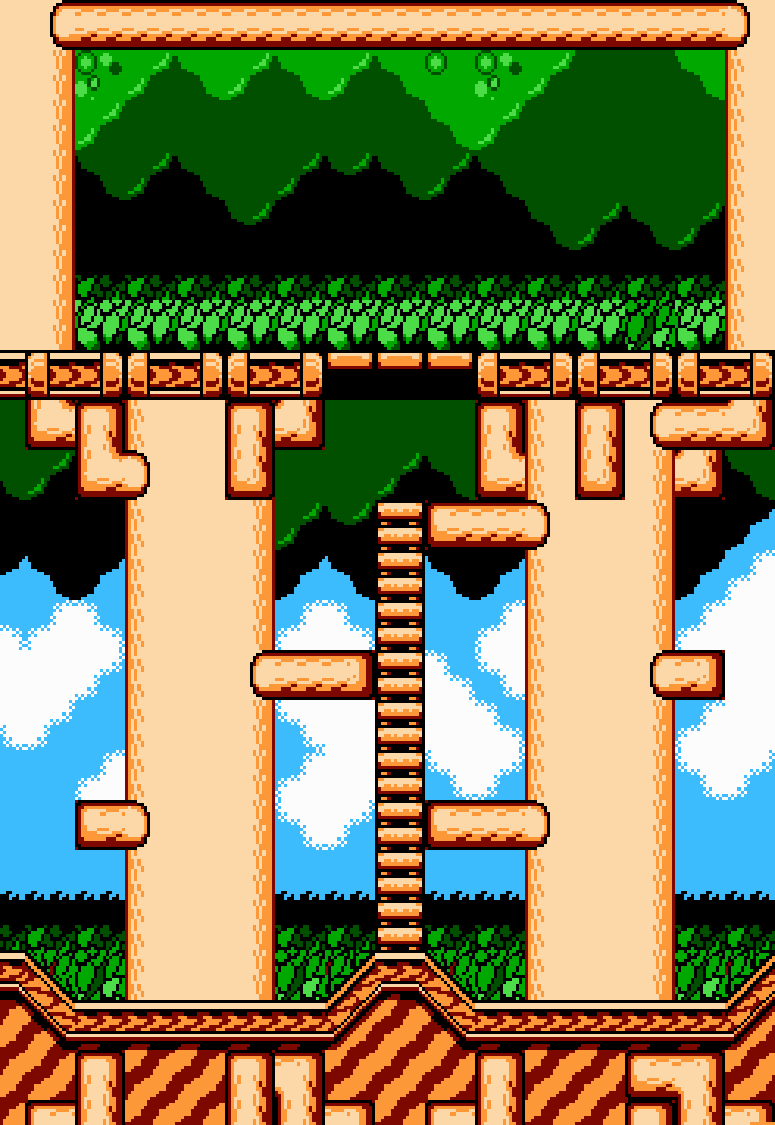
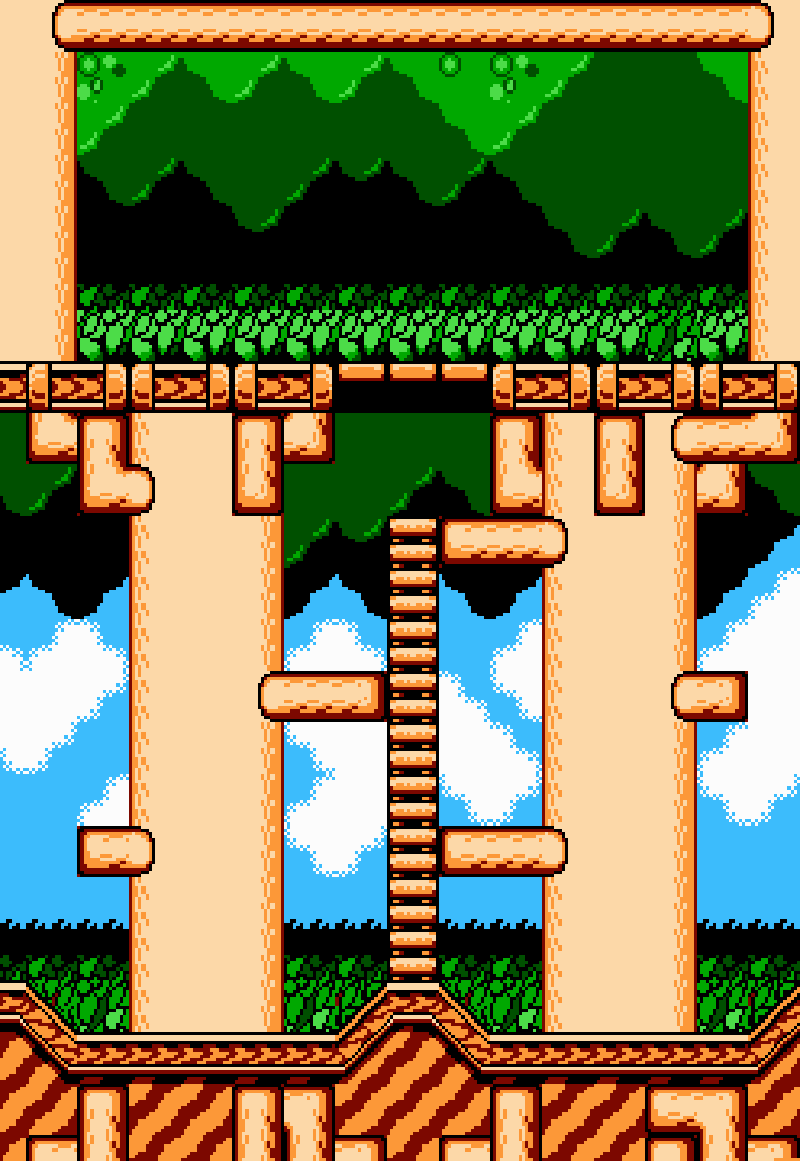
추가 : 4-1 레벨, Mr.Frosty 보스

diff --git a/Kirby's_Adventure/KirbyContents/TitleLevel.cpp b/Kirby's_Adventure/KirbyContents/TitleLevel.cpp
@@ -7,6 +7,8 @@
 #include <EngineCore\EngineResourcesManager.h>
 #include "TitleLogo.h"
 #include "TitleKirby.h"
+#include "Level111.h"
+#include "Level141.h"
 
 UTitleLevel::UTitleLevel()
 {
@@ -21,6 +23,59 @@ UTitleLevel::~UTitleLevel()
 void UTitleLevel::BeginPlay()
 {
 	ULevel::BeginPlay();
+
+	{
+		UEngineDirectory NewPath;
+
+		NewPath.MoveParent();
+		NewPath.Move("Resources");
+		NewPath.Move("Common");
+
+		std::list<UEngineFile> AllFileList = NewPath.AllFile({ ".png", ".bmp" }, true);
+		for (UEngineFile& File : AllFileList)
+		{
+			UEngineResourcesManager::GetInst().LoadImg(File.GetFullPath());
+		}
+
+		NewPath.MoveParent();
+		NewPath.Move("PlayLevel");
+
+		AllFileList = NewPath.AllFile({ ".png", ".bmp" }, true);
+		for (UEngineFile& File : AllFileList)
+		{
+			UEngineResourcesManager::GetInst().LoadImg(File.GetFullPath());
+		}
+
+		UEngineResourcesManager::GetInst().CuttingImage("Kirby1_Left.png", 10, 7);			// 256 * 256
+		UEngineResourcesManager::GetInst().CuttingImage("Kirby1_Right.png", 10, 7);			// 256 * 256
+		UEngineResourcesManager::GetInst().CuttingImage("Kirby2_Left.png", 10, 4);			// 256 * 256
+		UEngineResourcesManager::GetInst().CuttingImage("Kirby2_Right.png", 10, 4);			// 256 * 256
+		//UEngineResourcesManager::GetInst().CuttingImage("Kirby3_Left.png", 10, 4);			// 256 * 256
+		//UEngineResourcesManager::GetInst().CuttingImage("Kirby3_Right.png", 10, 4);			// 256 * 256
+		UEngineResourcesManager::GetInst().CuttingImage("EffectAbility1_Left.png", 10, 6);	// 256 * 256
+		UEngineResourcesManager::GetInst().CuttingImage("EffectAbility1_Right.png", 10, 6);	// 256 * 256
+		UEngineResourcesManager::GetInst().CuttingImage("EffectAbility2_Left.png", 10, 1);	// 256 * 256
+		UEngineResourcesManager::GetInst().CuttingImage("EffectAbility2_Right.png", 10, 1);	// 256 * 256
+		UEngineResourcesManager::GetInst().CuttingImage("NormalEnemy_Left.png", 10, 7);		// 256 * 256
+		UEngineResourcesManager::GetInst().CuttingImage("NormalEnemy_Right.png", 10, 7);	// 256 * 256
+		UEngineResourcesManager::GetInst().CuttingImage("PowerEnemy1_Left.png", 10, 9);		// 256 * 256
+		UEngineResourcesManager::GetInst().CuttingImage("PowerEnemy1_Right.png", 10, 9);	// 256 * 256
+		//UEngineResourcesManager::GetInst().CuttingImage("PowerEnemy2_Left.png", 10, 9);		// 256 * 256
+		//UEngineResourcesManager::GetInst().CuttingImage("PowerEnemy2_Right.png", 10, 9);		// 256 * 256
+		UEngineResourcesManager::GetInst().CuttingImage("MidBossEnemy_Left.png", 10, 4);	// 256 * 256
+		UEngineResourcesManager::GetInst().CuttingImage("MidBossEnemy_Right.png", 10, 4);	// 256 * 256
+		UEngineResourcesManager::GetInst().CuttingImage("BossEnemy_Left.png", 5, 2);		// 256 * 1024
+		UEngineResourcesManager::GetInst().CuttingImage("HUDUI.png", 1, 5);					// 1024 * 256
+		UEngineResourcesManager::GetInst().CuttingImage("HUDAbility.png", 10, 2);			// 256 * 256
+		UEngineResourcesManager::GetInst().CuttingImage("HUDComponent.png", 10, 2);			// 128 * 128
+		UEngineResourcesManager::GetInst().CuttingImage("Item_Left.png", 10, 3);			// 300 * 300
+		UEngineResourcesManager::GetInst().CuttingImage("Item_Right.png", 10, 3);			// 300 * 300
+	}
+
+	GEngine->CreateLevel<ULevel111>("Level111");
+	SetNextLevel("Level111");
+	//GEngine->CreateLevel<ULevel141>("Level141");
+	//SetNextLevel("Level141");
 }
 
 void UTitleLevel::Tick(float _DeltaTime)
@@ -29,7 +84,7 @@ void UTitleLevel::Tick(float _DeltaTime)
 
 	if (UEngineInput::IsDown('P'))
 	{
-		GEngine->ChangeLevel("PlayLevel");
+		GEngine->ChangeLevel("Level111");
 	}
 }
 

diff --git a/Kirby's_Adventure/KirbyContents/Level111.cpp b/Kirby's_Adventure/KirbyContents/Level111.cpp
@@ -29,54 +29,6 @@ void ULevel111::BeginPlay()
 {
 	ULevel::BeginPlay();
 
-	{
-		UEngineDirectory NewPath;
-
-		NewPath.MoveParent();
-		NewPath.Move("Resources");
-		NewPath.Move("Common");
-
-		std::list<UEngineFile> AllFileList = NewPath.AllFile({ ".png", ".bmp" }, true);
-		for (UEngineFile& File : AllFileList)
-		{
-			UEngineResourcesManager::GetInst().LoadImg(File.GetFullPath());
-		}
-
-		NewPath.MoveParent();
-		NewPath.Move("PlayLevel");
-
-		AllFileList = NewPath.AllFile({ ".png", ".bmp" }, true);
-		for (UEngineFile& File : AllFileList)
-		{
-			UEngineResourcesManager::GetInst().LoadImg(File.GetFullPath());
-		}
-
-		UEngineResourcesManager::GetInst().CuttingImage("Kirby1_Left.png", 10, 7);			// 256 * 256
-		UEngineResourcesManager::GetInst().CuttingImage("Kirby1_Right.png", 10, 7);			// 256 * 256
-		UEngineResourcesManager::GetInst().CuttingImage("Kirby2_Left.png", 10, 4);			// 256 * 256
-		UEngineResourcesManager::GetInst().CuttingImage("Kirby2_Right.png", 10, 4);			// 256 * 256
-		//UEngineResourcesManager::GetInst().CuttingImage("Kirby3_Left.png", 10, 4);			// 256 * 256
-		//UEngineResourcesManager::GetInst().CuttingImage("Kirby3_Right.png", 10, 4);			// 256 * 256
-		UEngineResourcesManager::GetInst().CuttingImage("EffectAbility1_Left.png", 10, 6);	// 256 * 256
-		UEngineResourcesManager::GetInst().CuttingImage("EffectAbility2_Right.png", 10, 6);	// 256 * 256
-		UEngineResourcesManager::GetInst().CuttingImage("EffectAbility1_Left.png", 10, 1);	// 256 * 256
-		UEngineResourcesManager::GetInst().CuttingImage("EffectAbility2_Right.png", 10, 1);	// 256 * 256
-		UEngineResourcesManager::GetInst().CuttingImage("NormalEnemy_Left.png", 10, 7);		// 256 * 256
-		UEngineResourcesManager::GetInst().CuttingImage("NormalEnemy_Right.png", 10, 7);	// 256 * 256
-		UEngineResourcesManager::GetInst().CuttingImage("PowerEnemy1_Left.png", 10, 9);		// 256 * 256
-		UEngineResourcesManager::GetInst().CuttingImage("PowerEnemy1_Right.png", 10, 9);	// 256 * 256
-		//UEngineResourcesManager::GetInst().CuttingImage("PowerEnemy2_Left.png", 10, 9);		// 256 * 256
-		//UEngineResourcesManager::GetInst().CuttingImage("PowerEnemy2_Right.png", 10, 9);		// 256 * 256
-		UEngineResourcesManager::GetInst().CuttingImage("MidBossEnemy_Left.png", 10, 4);	// 256 * 256
-		UEngineResourcesManager::GetInst().CuttingImage("MidBossEnemy_Right.png", 10, 4);	// 256 * 256
-		UEngineResourcesManager::GetInst().CuttingImage("BossEnemy_Left.png", 5, 2);		// 256 * 1024
-		UEngineResourcesManager::GetInst().CuttingImage("BossEnemy_Right.png", 5, 2);		// 256 * 1024
-		UEngineResourcesManager::GetInst().CuttingImage("HUDUI.png", 1, 5);					// 1024 * 256
-		UEngineResourcesManager::GetInst().CuttingImage("HUDAbility.png", 10, 2);			// 256 * 256
-		UEngineResourcesManager::GetInst().CuttingImage("HUDComponent.png", 10, 2);			// 128 * 128
-		UEngineResourcesManager::GetInst().CuttingImage("Item.png", 10, 3);					// 300 * 300
-	}
-
 	GEngine->CreateLevel<ULevel112>("Level112");
 	SetNextLevel("Level112");
 }
@@ -115,8 +67,8 @@ void ULevel111::Tick(float _DeltaTime)
 void ULevel111::LevelStart(ULevel* _Level)
 {
 	Map = SpawnActor<ABackGroundMap>();
-	Map->SetMapImage("Stage2-3.png");
-	Map->SetColMapImage("Stage2-3_Col.png");
+	Map->SetMapImage("Stage1-1.png");
+	Map->SetColMapImage("Stage1-1_Col.png");
 
 	Fade = SpawnActor<AFadeOut>();
 	Fade->SetActorLocation({ 400, 375 });

diff --git a/Kirby's_Adventure/KirbyContents/Level141.cpp b/Kirby's_Adventure/KirbyContents/Level141.cpp
@@ -1,4 +1,4 @@
-#include "Level112.h"
+#include "Level141.h"
 
 #include <EngineBase\EngineDirectory.h>
 #include <EngineBase\EngineFile.h>
@@ -9,27 +9,23 @@
 #include "Player.h"
 #include "Monster.h"
 #include "FadeOut.h"
-#include "Level141.h"
 
-ULevel112::ULevel112()
+ULevel141::ULevel141()
 {
 
 }
 
-ULevel112::~ULevel112()
+ULevel141::~ULevel141()
 {
 
 }
 
-void ULevel112::BeginPlay()
+void ULevel141::BeginPlay()
 {
 	ULevel::BeginPlay();
-
-	GEngine->CreateLevel<ULevel141>("Level141");
-	SetNextLevel("Level141");
 }
 
-void ULevel112::Tick(float _DeltaTime)
+void ULevel141::Tick(float _DeltaTime)
 {
 	ULevel::Tick(_DeltaTime);
 
@@ -60,11 +56,11 @@ void ULevel112::Tick(float _DeltaTime)
 	SetCameraPos(Pos);
 }
 
-void ULevel112::LevelStart(ULevel* _Level)
+void ULevel141::LevelStart(ULevel* _Level)
 {
 	Map = SpawnActor<ABackGroundMap>();
-	Map->SetMapImage("Stage1-2.png");
-	Map->SetColMapImage("Stage1-2_Col.png");
+	Map->SetMapImage("Stage4-1.png");
+	Map->SetColMapImage("Stage4-1_Col.png");
 
 	Fade = SpawnActor<AFadeOut>();
 	Fade->SetActorLocation({ 400, 375 });
@@ -79,9 +75,9 @@ void ULevel112::LevelStart(ULevel* _Level)
 	Kirby->SetActorLocation({ 200, 200 });
 }
 
-void ULevel112::LevelEnd(ULevel* _Level)
+void ULevel141::LevelEnd(ULevel* _Level)
 {
 	Fade->FadeStart(FadeOption::FadeOut);
 
-	GEngine->DestroyLevel("Level112");
+	GEngine->DestroyLevel("Level141");
 }

diff --git a/Kirby's_Adventure/KirbyContents/AbsorbEffect.cpp b/Kirby's_Adventure/KirbyContents/AbsorbEffect.cpp
@@ -18,11 +18,11 @@ void AAbsorbEffect::BeginPlay()
 
 	{
 		Renderer = CreateImageRenderer(KirbyRenderOrder::Effect);
-		Renderer->SetImage("EffectAbility_Right.png");
+		Renderer->SetImage("EffectAbility1_Right.png");
 		Renderer->SetTransform({ {0,0}, {256, 256} });
 
-		Renderer->CreateAnimation("Absorb_Effect_Right", "EffectAbility_Right.png", 3, 3, 0.1f, false);
-		Renderer->CreateAnimation("Absorb_Effect_Left", "EffectAbility_Left.png", 3, 3, 0.1f, false);
+		Renderer->CreateAnimation("Absorb_Effect_Right", "EffectAbility1_Right.png", 3, 3, 0.1f, false);
+		Renderer->CreateAnimation("Absorb_Effect_Left", "EffectAbility1_Left.png", 3, 3, 0.1f, false);
 
 		Renderer->ChangeAnimation(GetAnimationName("Absorb_Effect"));
 	}

diff --git a/Kirby's_Adventure/KirbyContents/SpitStar.cpp b/Kirby's_Adventure/KirbyContents/SpitStar.cpp
@@ -18,11 +18,11 @@ void ASpitStar::BeginPlay()
 
 	{
 		Renderer = CreateImageRenderer(KirbyRenderOrder::Ability);
-		Renderer->SetImage("EffectAbility_Right.png");
+		Renderer->SetImage("EffectAbility1_Right.png");
 		Renderer->SetTransform({ {0,0}, {256, 256} });
 
-		Renderer->CreateAnimation("SpitStar_Right", "EffectAbility_Right.png", 4, 7, 0.1f, true);
-		Renderer->CreateAnimation("SpitStar_Left", "EffectAbility_Left.png", 4, 7, 0.1f, true);
+		Renderer->CreateAnimation("SpitStar_Right", "EffectAbility1_Right.png", 4, 7, 0.1f, true);
+		Renderer->CreateAnimation("SpitStar_Left", "EffectAbility1_Left.png", 4, 7, 0.1f, true);
 
 		Renderer->ChangeAnimation(GetAnimationName("SpitStar"));
 	}

diff --git a/Kirby's_Adventure/KirbyContents/Spark.cpp b/Kirby's_Adventure/KirbyContents/Spark.cpp
@@ -16,11 +16,11 @@ void ASpark::BeginPlay()
 
 	{
 		Renderer = CreateImageRenderer(KirbyRenderOrder::Ability);
-		Renderer->SetImage("EffectAbility_Right.png");
+		Renderer->SetImage("EffectAbility1_Right.png");
 		Renderer->SetTransform({ {0,0}, {256, 256} });
 
-		Renderer->CreateAnimation("Spark_Right", "EffectAbility_Right.png", 36, 38, 0.03f, false);
-		Renderer->CreateAnimation("Spark_Left", "EffectAbility_Left.png", 36, 38, 0.03f, false);
+		Renderer->CreateAnimation("Spark_Right", "EffectAbility1_Right.png", 36, 38, 0.03f, false);
+		Renderer->CreateAnimation("Spark_Left", "EffectAbility1_Left.png", 36, 38, 0.03f, false);
 
 		Renderer->ChangeAnimation(GetAnimationName("Spark"));
 	}

diff --git a/Kirby's_Adventure/KirbyContents/Fire.cpp b/Kirby's_Adventure/KirbyContents/Fire.cpp
@@ -16,11 +16,11 @@ void AFire::BeginPlay()
 
 	{
 		Renderer = CreateImageRenderer(KirbyRenderOrder::Ability);
-		Renderer->SetImage("EffectAbility_Right.png");
+		Renderer->SetImage("EffectAbility1_Right.png");
 		Renderer->SetTransform({ {0,0}, {256, 256} });
 
-		Renderer->CreateAnimation("Fire_Right", "EffectAbility_Right.png", 39, 42, 0.03f, false);
-		Renderer->CreateAnimation("Fire_Left", "EffectAbility_Left.png", 39, 42, 0.03f, false);
+		Renderer->CreateAnimation("Fire_Right", "EffectAbility1_Right.png", 39, 42, 0.03f, false);
+		Renderer->CreateAnimation("Fire_Left", "EffectAbility1_Left.png", 39, 42, 0.03f, false);
 
 		Renderer->ChangeAnimation(GetAnimationName("Fire"));
 	}

diff --git a/Kirby's_Adventure/KirbyContents/Burp.cpp b/Kirby's_Adventure/KirbyContents/Burp.cpp
@@ -18,11 +18,11 @@ void ABurp::BeginPlay()
 	
 	{
 		Renderer = CreateImageRenderer(KirbyRenderOrder::Ability);
-		Renderer->SetImage("EffectAbility_Right.png");
+		Renderer->SetImage("EffectAbility1_Right.png");
 		Renderer->SetTransform({ {0,0}, {256, 256} });
 
-		Renderer->CreateAnimation("Burp_Right", "EffectAbility_Right.png", 2, 2, 0.1f, false);
-		Renderer->CreateAnimation("Burp_Left", "EffectAbility_Left.png", 2, 2, 0.1f, false);
+		Renderer->CreateAnimation("Burp_Right", "EffectAbility1_Right.png", 2, 2, 0.1f, false);
+		Renderer->CreateAnimation("Burp_Left", "EffectAbility1_Left.png", 2, 2, 0.1f, false);
 
 		Renderer->ChangeAnimation(GetAnimationName("Burp"));
 	}

diff --git a/Kirby's_Adventure/KirbyContents/Level141.h b/Kirby's_Adventure/KirbyContents/Level141.h
@@ -1,0 +1,24 @@
+#pragma once
+#include "KirbyLevel.h"
+
+class ULevel141 : public UKirbyLevel
+{
+public:
+	ULevel141();
+	~ULevel141();
+
+	ULevel141(const ULevel141& _Other) = delete;
+	ULevel141(ULevel141&& _Other) noexcept = delete;
+	ULevel141& operator=(const ULevel141& _Other) = delete;
+	ULevel141& operator=(ULevel141&& _Other) noexcept = delete;
+
+protected:
+	void BeginPlay() override;
+	void Tick(float _DeltaTime) override;
+
+	void LevelStart(ULevel* _Level) override;
+	void LevelEnd(ULevel* _Level) override;
+
+private:
+
+};

diff --git a/Kirby's_Adventure/KirbyContents/HUD.cpp b/Kirby's_Adventure/KirbyContents/HUD.cpp
@@ -25,9 +25,8 @@ void AHUD::SetHUDImage(std::string_view _HUDImageName)
 void AHUD::BeginPlay()
 {
 	Renderer = CreateImageRenderer(KirbyRenderOrder::HUD);
+	SetHUDImage("HUDUI_Normal.png");
 	Renderer->CameraEffectOff();
-
-	SetHUDImage("HUD.png");
 }
 
 void AHUD::Tick(float _DeltaTime)

diff --git a/Kirby's_Adventure/KirbyContents/ContentsCore.cpp b/Kirby's_Adventure/KirbyContents/ContentsCore.cpp
@@ -22,9 +22,8 @@ void UContentsCore::BeginPlay()
 	UEngineCore::BeginPlay();
 
 	CreateLevel<UTitleLevel>("TitleLevel");
-	CreateLevel<ULevel111>("Level111");
 
-	ChangeLevel("Level111");
+	ChangeLevel("TitleLevel");
 }
 
 void UContentsCore::Tick(float _DeltaTime)

diff --git a/Kirby's_Adventure/KirbyContents/TitleLevel.h b/Kirby's_Adventure/KirbyContents/TitleLevel.h
@@ -1,7 +1,7 @@
 #pragma once
-#include <EngineCore\Level.h>
+#include "KirbyLevel.h"
 
-class UTitleLevel : public ULevel
+class UTitleLevel : public UKirbyLevel
 {
 public:
 	UTitleLevel();
